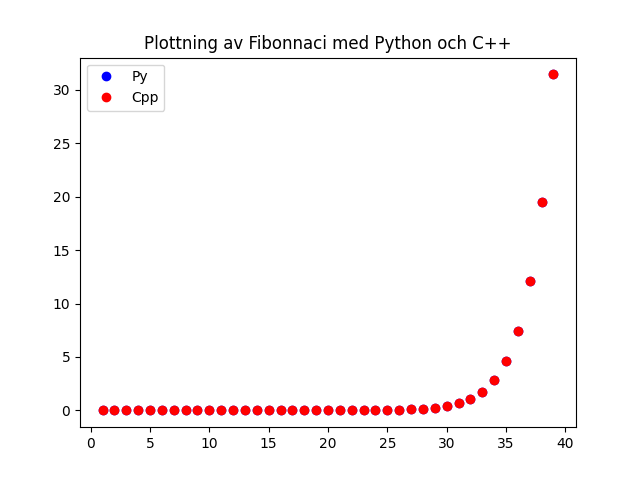
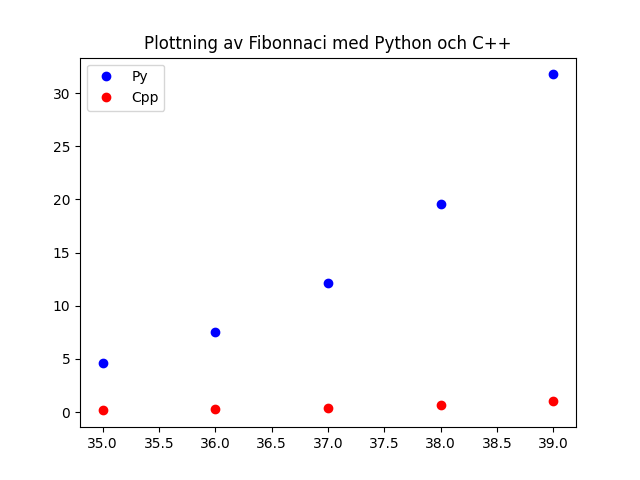
fixade plot

diff --git a/MA4_files/MA4_2.py b/MA4_files/MA4_2.py
@@ -26,19 +26,23 @@ def fib_py(n):
 
 if __name__ == '__main__':
 
-	n=np.arange(1,40)
+	n=np.arange(35,40)
 	tid_cpp=[]
 	tid_py=[]
-	for i in range(1,40):
+	for i in range(35,40):
 		start = pc()
 		fib_py(i)
 		end = pc()
-		tid_py.append(end-start)
+		tid_py.append(round(end-start,2))
+	for i in range(35,40):
 		f=Integer(i)
 		start_cpp=pc()
 		f.fib()
 		end_cpp=pc()
-		tid_cpp.append(end-start)
+		tid_cpp.append(round(end_cpp-start_cpp,2))
+	print(tid_cpp)
+	print()
+	print(tid_py)
 	plt.plot(n,tid_py,'bo')
 	plt.plot(n,tid_cpp,'ro')
 	plt.legend(['Py','Cpp'])
